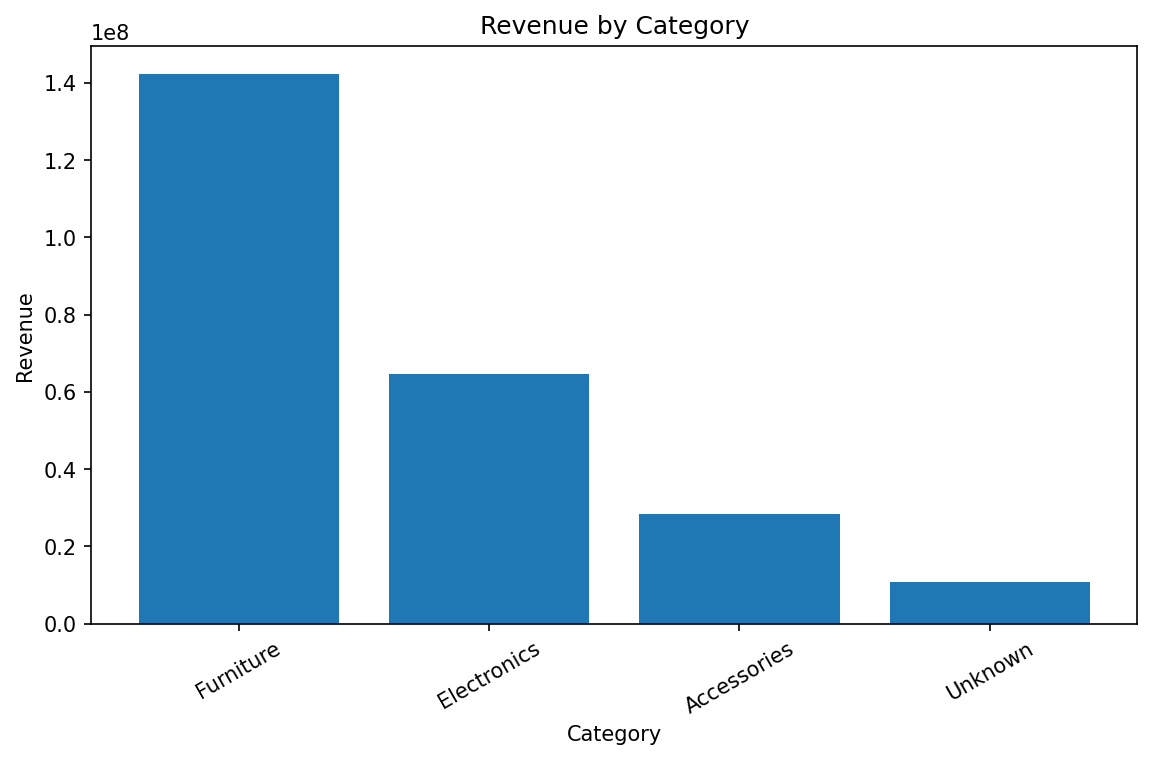
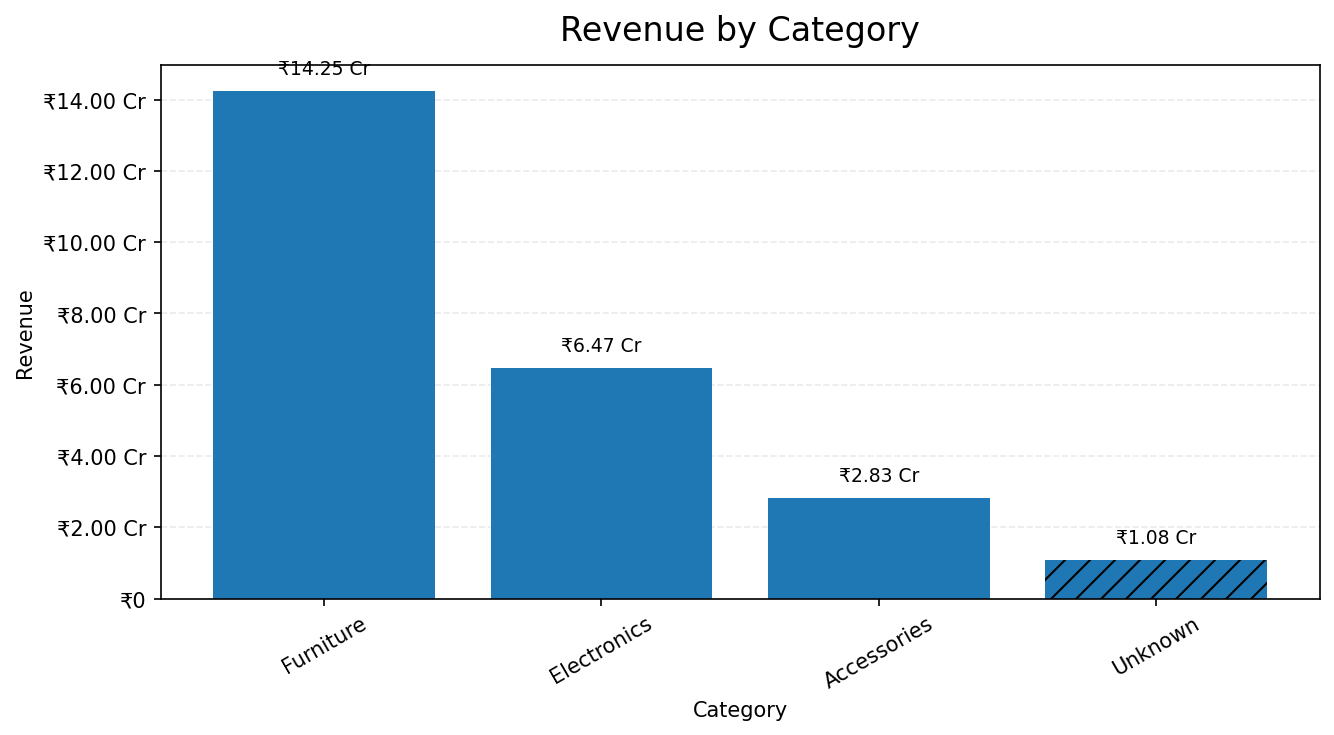
feat: enhance charting functions with new labels and unknown data marking

diff --git a/src/reporting/charts.py b/src/reporting/charts.py
@@ -25,7 +25,7 @@ def _format_revenue(value, _position=None):
 
 
 def _add_bar_labels(axis, bars):
-    """Add formatted revenue labels to bar charts."""
+    """Add formatted revenue labels to vertical bars."""
     for bar in bars:
         value = bar.get_height()
         axis.annotate(
@@ -40,7 +40,7 @@ def _add_bar_labels(axis, bars):
 
 
 def _add_horizontal_bar_labels(axis, bars):
-    """Add formatted revenue labels to horizontal bar charts."""
+    """Add formatted revenue labels to horizontal bars."""
     for bar in bars:
         value = bar.get_width()
         axis.annotate(
@@ -52,6 +52,13 @@ def _add_horizontal_bar_labels(axis, bars):
             va="center",
             fontsize=9,
         )
+
+
+def _mark_unknown_bars(axis, bars, labels):
+    """Visually distinguish bars representing missing/unknown data."""
+    for bar, label in zip(bars, labels):
+        if str(label).strip().lower() == "unknown":
+            bar.set_hatch("//")
 
 
 def _style_axis(axis):
@@ -73,13 +80,11 @@ def plot_monthly_revenue(report, output_dir):
     axis.set_title("Monthly Revenue", fontsize=16, pad=12)
     axis.set_xlabel("Month")
     axis.set_ylabel("Revenue")
-
     axis.yaxis.set_major_formatter(FuncFormatter(_format_revenue))
-
     axis.tick_params(axis="x", rotation=45)
+
     _style_axis(axis)
 
-    # Highlight the lowest-revenue month as a potential anomaly.
     minimum_index = revenue.idxmin()
     minimum_revenue = revenue.loc[minimum_index]
     minimum_month = str(dataframe.loc[minimum_index, "Month"])
@@ -87,14 +92,13 @@ def plot_monthly_revenue(report, output_dir):
     axis.annotate(
         f"Lowest revenue\n{_format_revenue(minimum_revenue)}",
         xy=(minimum_month, minimum_revenue),
-        xytext=(0, 35),
+        xytext=(-55, 32),
         textcoords="offset points",
         ha="center",
-        fontsize=9,
+        fontsize=8,
         arrowprops={"arrowstyle": "->"},
     )
 
-    # Annotate the largest month-over-month decline.
     percentage_change = revenue.pct_change()
     largest_decline_index = percentage_change.idxmin()
 
@@ -107,10 +111,10 @@ def plot_monthly_revenue(report, output_dir):
                 str(dataframe.loc[largest_decline_index, "Month"]),
                 revenue.loc[largest_decline_index],
             ),
-            xytext=(0, -35),
+            xytext=(55, 8),
             textcoords="offset points",
             ha="center",
-            fontsize=9,
+            fontsize=8,
             arrowprops={"arrowstyle": "->"},
         )
 
@@ -127,20 +131,18 @@ def plot_revenue_by_region(report, output_dir):
 
     figure, axis = plt.subplots(figsize=(9, 5))
 
-    bars = axis.bar(
-        dataframe["Region"].astype(str),
-        dataframe["Revenue"],
-    )
+    labels = dataframe["Region"].astype(str)
+    bars = axis.bar(labels, dataframe["Revenue"])
 
     axis.set_title("Revenue by Region", fontsize=16, pad=12)
     axis.set_xlabel("Region")
     axis.set_ylabel("Revenue")
-
     axis.yaxis.set_major_formatter(FuncFormatter(_format_revenue))
-
     axis.tick_params(axis="x", rotation=30)
+
     _style_axis(axis)
     _add_bar_labels(axis, bars)
+    _mark_unknown_bars(axis, bars, labels)
 
     figure.tight_layout()
 
@@ -155,20 +157,18 @@ def plot_revenue_by_category(report, output_dir):
 
     figure, axis = plt.subplots(figsize=(9, 5))
 
-    bars = axis.bar(
-        dataframe["Category"].astype(str),
-        dataframe["Revenue"],
-    )
+    labels = dataframe["Category"].astype(str)
+    bars = axis.bar(labels, dataframe["Revenue"])
 
     axis.set_title("Revenue by Category", fontsize=16, pad=12)
     axis.set_xlabel("Category")
     axis.set_ylabel("Revenue")
-
     axis.yaxis.set_major_formatter(FuncFormatter(_format_revenue))
-
     axis.tick_params(axis="x", rotation=30)
+
     _style_axis(axis)
     _add_bar_labels(axis, bars)
+    _mark_unknown_bars(axis, bars, labels)
 
     figure.tight_layout()
 
@@ -199,7 +199,6 @@ def plot_top_products(report, output_dir, top_n=10):
     )
     axis.set_xlabel("Revenue")
     axis.set_ylabel("Product")
-
     axis.xaxis.set_major_formatter(FuncFormatter(_format_revenue))
 
     _style_axis(axis)
@@ -221,10 +220,8 @@ def plot_salesperson_revenue(report, output_dir):
 
     figure, axis = plt.subplots(figsize=(9, 5))
 
-    bars = axis.bar(
-        dataframe["Salesperson"].astype(str),
-        dataframe["Revenue"],
-    )
+    labels = dataframe["Salesperson"].astype(str)
+    bars = axis.bar(labels, dataframe["Revenue"])
 
     axis.set_title(
         "Revenue by Salesperson",
@@ -233,12 +230,32 @@ def plot_salesperson_revenue(report, output_dir):
     )
     axis.set_xlabel("Salesperson")
     axis.set_ylabel("Revenue")
-
     axis.yaxis.set_major_formatter(FuncFormatter(_format_revenue))
-
     axis.tick_params(axis="x", rotation=30)
+
     _style_axis(axis)
     _add_bar_labels(axis, bars)
+    _mark_unknown_bars(axis, bars, labels)
+
+    # Highlight the top named salesperson in the chart narrative.
+    named_dataframe = dataframe[
+        dataframe["Salesperson"].astype(str).str.strip().str.lower() != "unknown"
+    ]
+
+    if not named_dataframe.empty:
+        leader = named_dataframe.iloc[0]
+        leader_name = str(leader["Salesperson"])
+        leader_revenue = leader["Revenue"]
+
+        axis.annotate(
+            f"Top performer: {leader_name}\n{_format_revenue(leader_revenue)}",
+            xy=(leader_name, leader_revenue),
+            xytext=(0, 35),
+            textcoords="offset points",
+            ha="center",
+            fontsize=8,
+            arrowprops={"arrowstyle": "->"},
+        )
 
     figure.tight_layout()
 
